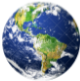
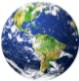
Correct compile error with MenuView and Controller

diff --git a/src/View/GameViewController.java b/src/View/GameViewController.java
@@ -1,0 +1,112 @@
+/*
+ * Click nbfs://nbhost/SystemFileSystem/Templates/Licenses/license-default.txt to change this license
+ * Click nbfs://nbhost/SystemFileSystem/Templates/javafx/FXMLController.java to edit this template
+ */
+package View;
+
+import java.net.URL;
+import java.util.ResourceBundle;
+import javafx.event.ActionEvent;
+import javafx.fxml.FXML;
+import javafx.fxml.Initializable;
+import javafx.scene.control.Button;
+import javafx.scene.control.Slider;
+import javafx.scene.control.TextField;
+import javafx.scene.image.ImageView;
+import javafx.scene.input.DragEvent;
+import javafx.scene.layout.Pane;
+import javafx.scene.shape.Circle;
+import javafx.scene.text.Text;
+import Model.Vector2;
+import java.util.List;
+
+/**
+ * FXML Controller class
+ *
+ * @author zeelg
+ */
+public class GameViewController implements Initializable {
+
+    @FXML
+    private Text zomombieLevel;
+    @FXML
+    private Text scorePts;
+    @FXML
+    private Text targetPlanet;
+    @FXML
+    private Circle marsPath;
+    @FXML
+    private Circle jupiterPath;
+    @FXML
+    private Circle saturnPath;
+    @FXML
+    private Circle uraniusPath;
+    @FXML
+    private Circle neptunePath;
+    @FXML
+    private Circle venusPath;
+    @FXML
+    private Circle earthPath;
+    @FXML
+    private Circle moonPath;
+    @FXML
+    private Circle mercuryPath;
+    @FXML
+    private Circle Earth;
+    @FXML
+    private Circle Sun;
+    @FXML
+    private Circle Venus;
+    @FXML
+    private Circle Mercury;
+    @FXML
+    private Circle Mars;
+    @FXML
+    private Circle Jupiter;
+    @FXML
+    private Circle Saturn;
+    @FXML
+    private Circle Uranius;
+    @FXML
+    private Circle Neptune;
+    @FXML
+    private Circle Moon;
+    @FXML
+    private ImageView rocket;
+    @FXML
+    private Button btnReset;
+    @FXML
+    private ImageView audioInput;
+    @FXML
+    private Text timeLeftToLaunch;
+    @FXML
+    private TextField speedInput;
+    @FXML
+    private Slider directionInput;
+    @FXML
+    private Button btnLaunch;
+
+    List<Circle> circlePlanets = List.of(Sun, Mercury, Venus, Earth, Mars, Jupiter, Saturn, Uranius, Neptune);
+    double[] radius = {696340, 2440, 6052, 6371, 3390, 69911, 58232, 25559, 24764};
+    
+    /**
+     * Initializes the controller class.
+     */
+    @Override
+    public void initialize(URL url, ResourceBundle rb) {
+        
+    }    
+
+    @FXML
+    private void ResetBtnClicked(ActionEvent event) {
+    }
+
+    @FXML
+    private void DirectionDragDropped(DragEvent event) {
+    }
+
+    @FXML
+    private void LaunchBtnClicked(ActionEvent event) {
+    }
+    
+}

diff --git a/src/Controller/MenuViewController.java b/src/Controller/MenuViewController.java
@@ -49,7 +49,7 @@ public class MenuViewController implements Initializable {
     @Override
     public void initialize(URL url, ResourceBundle rb) {
         Image[] images = new Image[]{
-            new Image(getClass().getResourceAsStream("/Images/Earth.png")),
+            new Image(getClass().getResourceAsStream("/Images/Earth.jpg")),
             new Image(getClass().getResourceAsStream("/Images/Moon.png"))
         };
         
@@ -71,12 +71,12 @@ public class MenuViewController implements Initializable {
         
         btnInstructions.setOnAction(e -> {
             if (show) {
-                purposeText.setText("Your Goal: To **escape** to other planets before you've been 'Zombied'");
+                purposeText.setText("Your Goal: To escape to other planets before you've \nbeen captured by the spreading monsters through the space.");
                 title.setText("How to play?");
-                instructionsText.setText("Enter your rocket's **speed** and **direction** \n "
-                        + "Press **Launch** to fire toward the target planet \n"
-                        + "Get to the planet to score and level up \n "
-                        + "If you miss, just see the feedback and get back to try again");
+                instructionsText.setText("1) Enter your rocket's SPEED and DIRECTION \n"
+                        + "2) Press LAUNCH to fire toward the target planet \n"
+                        + "3) Get to the planet to score and level up \n"
+                        + "4) If you miss, just see the feedback and click RESET to try again");
                 show = false;
                 return;
             }

diff --git a/src/Main/Sem3Final_Project.java b/src/Main/Sem3Final_Project.java
@@ -35,8 +35,8 @@ public class Sem3Final_Project extends Application {
     @Override
     public void start(Stage primaryStage) {
         try {
-            System.out.println(getClass().getResource("/View/GameView.fxml"));
-            Parent root = FXMLLoader.load(getClass().getResource("/View/GameView.fxml"));
+            System.out.println(getClass().getResource("/View/MenuView.fxml"));
+            Parent root = FXMLLoader.load(getClass().getResource("/View/MenuView.fxml"));
 
             Scene scene = new Scene(root);
             primaryStage.setTitle("Marathon Simulator");

diff --git a/src/Model/Trajectory.java b/src/Model/Trajectory.java
@@ -3,7 +3,6 @@ package Model;
 
 import java.util.List;
 import javafx.geometry.Point2D;
-import Controller.GameViewController;
 
 /**
  * Trajectory class that handles the trajectory
